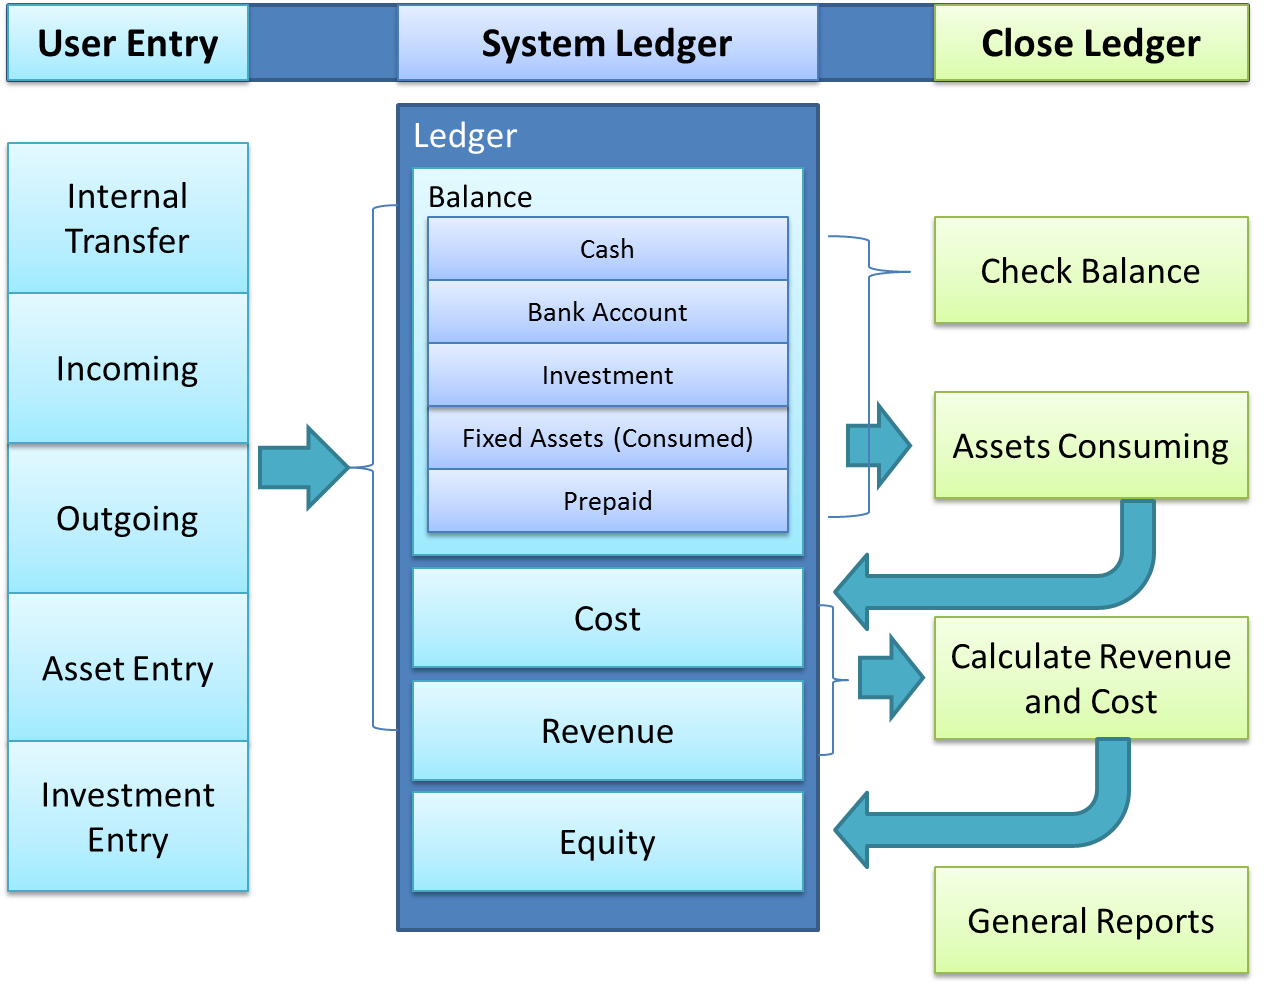
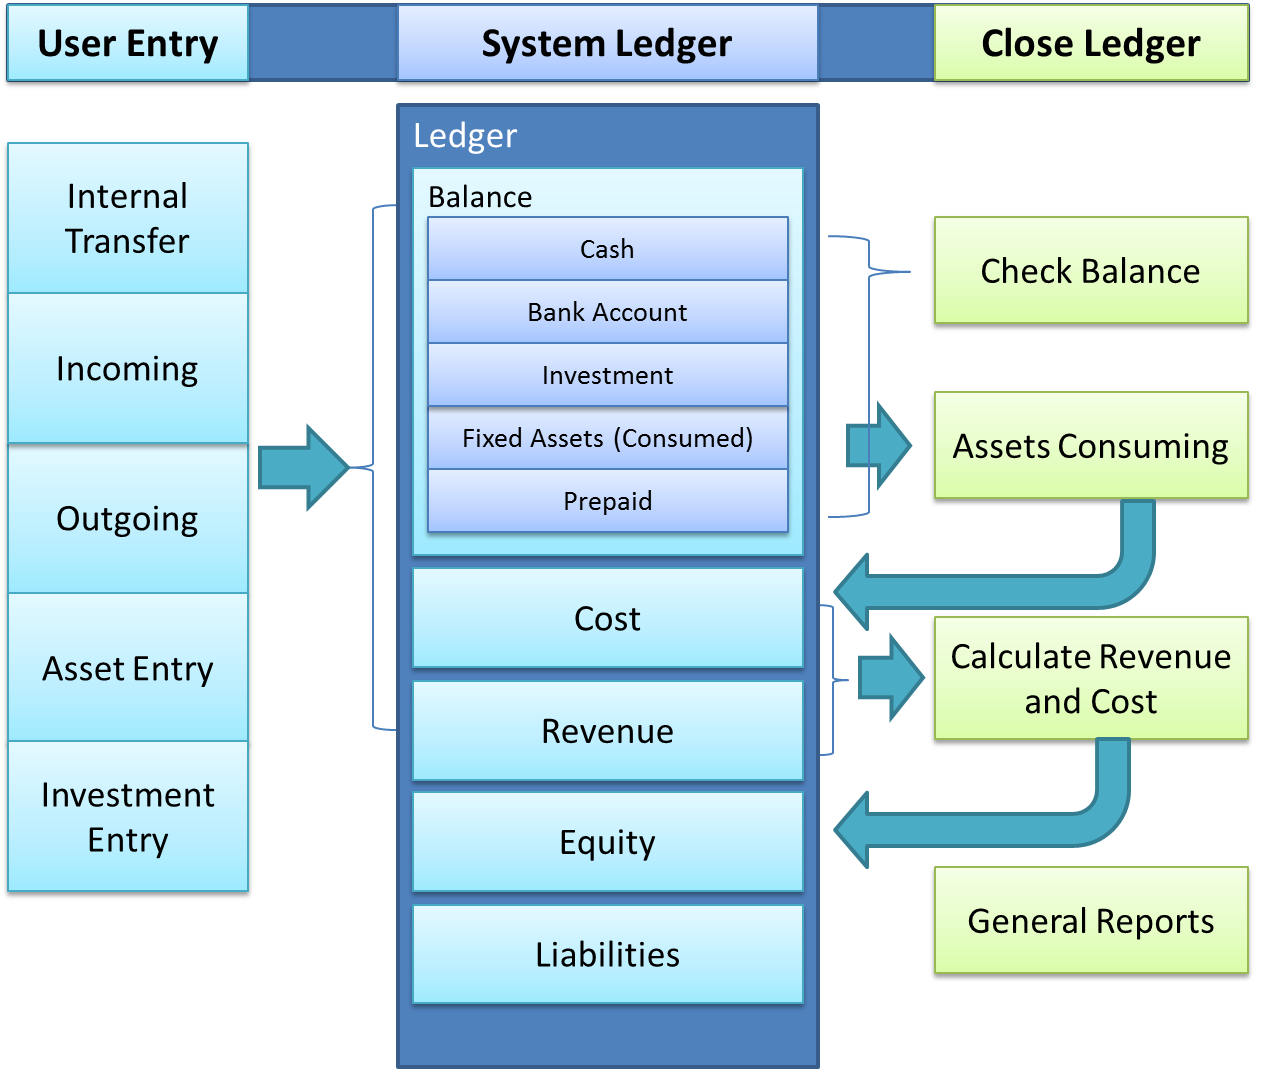
System loading

diff --git a/doc/accounting.html b/doc/accounting.html
@@ -12,9 +12,12 @@
 		<h2>Entry: </h2>
 		<p>Document entries provide the function that user can move amount from one G/L account to other account.</p>
 		<table class='Table'>
-			<tr><td>1. Incoming Recording: </td><td>salary, bonus, award, adhoc incoming; transafer REVENUE to CASH, BANK, INVESTMENT or PREPAID accounts.</td></tr>
-			<tr><td>2. Outgoting Recroding: </td><td>transfer money from CASH, BANK, INVESTMENT or PREPAID accounts to COST.</td></tr>
-			<tr><td>3. Internal Transfer: </td><td>Money transfer between CASH, BANK, INVESTMENT or PREPAID accounts;</td></tr>
+			<tr><td>1. Incoming Recording: </td><td>salary, bonus, award, adhoc incoming; transafer REVENUE to Balance accounts group(GLAccountGroup.CASH,
+			GLAccountGroup.BANK_ACCOUNT, GLAccountGroup.INVESTMENT,
+			GLAccountGroup.ASSETS, GLAccountGroup.PREPAID)</td></tr>
+			<tr><td>2. Outgoting Recroding: </td><td>transfer money from Liquidity account group (GLAccountGroup.CASH, GLAccountGroup.BANK_ACCOUNT,
+			GLAccountGroup.SHORT_LIABILITIES, GLAccountGroup.PREPAID) accounts to COST.</td></tr>
+			<tr><td>3. Internal Transfer: </td><td>Money transfer between Liquidity accounts;</td></tr>
 			<tr><td>4. Investment Entry: </td><td>Money transfer between CASH or BANK accounts to investment; Besides that, system will save specific information of investemnt.</td></tr>
 			<tr><td>5. Asset Transfer: </td><td>Money transfer between CASH or BANK accounts to fixed assets; Besides that, system will save specific information of assets.</td></tr>
 		</table>

diff --git a/doc/loading.html b/doc/loading.html
@@ -5,7 +5,10 @@
 	</head>
 	<body>
 		<p><a href='./index.html'>Home</a>/</p>
-		<h1>Loading Data</h1>	
+		<h1>Loading Data</h1>
+		<p>
+			<img src="./imgs/sys_init.png" /><br/>
+		</p>		
 		<p>
 			Application loads data when application first initialize. Two parts of data will load, one
 			is master data, the other is transaction data. Coz there is dependency between two data, so
